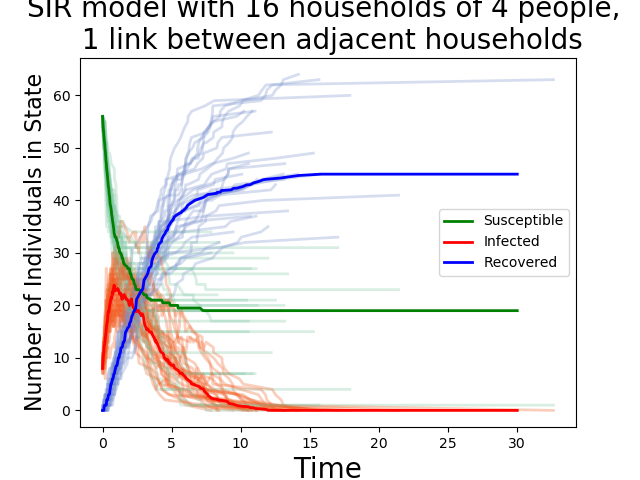
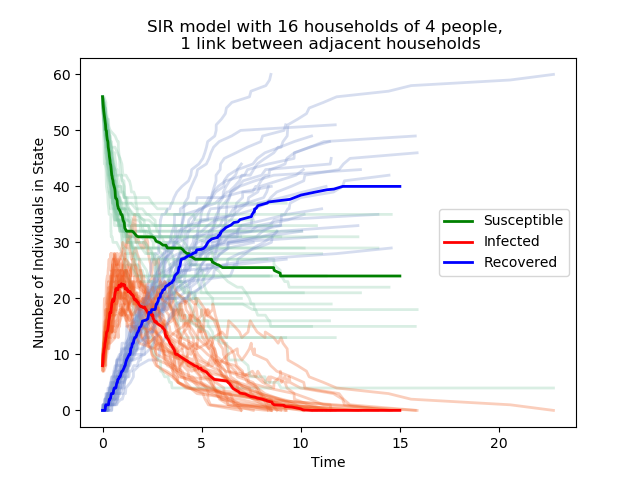
graph fixing

diff --git a/Toy_Network_Experimentation.py b/Toy_Network_Experimentation.py
@@ -112,7 +112,7 @@ def main(single_lattices=True, multi_lattices=True,k_random=True,k_workplace=Tru
     if(single_lattices):
         print("Beginning Single Seed Increasing Households tests")
         # initialise variables
-        tMax = 12
+        tMax = 15
         maxalpha = 0.4
         maxgamma = 0.1
         maxbeta = 4
@@ -269,7 +269,7 @@ def main(single_lattices=True, multi_lattices=True,k_random=True,k_workplace=Tru
     if(multi_lattices):
         print("Beginning Multi Seed Increasing Households tests")
         # initialise variables
-        tMax = 30
+        tMax = 15
         maxalpha = 0.4
         maxgamma = 0.1
         maxbeta = 4
@@ -426,7 +426,7 @@ def main(single_lattices=True, multi_lattices=True,k_random=True,k_workplace=Tru
     if(k_random):
         print("Beginning k Random Inter-Household Links Testing")
         # initialise variables
-        tMax = 30
+        tMax = 15
         maxalpha = 0.4
         maxgamma = 0.1
         maxbeta = 4
@@ -587,7 +587,7 @@ def main(single_lattices=True, multi_lattices=True,k_random=True,k_workplace=Tru
     if(k_workplace):
         print("Beginning k Workplace Links Testing")
         # initialise variables
-        tMax = 30
+        tMax = 15
         maxalpha = 0.4
         maxgamma = 0.1
         maxbeta = 4
@@ -747,4 +747,4 @@ def main(single_lattices=True, multi_lattices=True,k_random=True,k_workplace=Tru
 
 
 if __name__=="__main__":
-    main(False, False, False, True)
+    main(True, True, True, True)

diff --git a/Small_World_Experimentation.py b/Small_World_Experimentation.py
@@ -65,7 +65,7 @@ def main(er_small_test=True, ring_small_test=True):
     '''
     Main loop for testing within this Python file
     '''
-    print("Beginning toy network simulations")
+    print("Beginning small world simulations")
     if (er_small_test):
         # initialise variables
         N = 1000
@@ -114,7 +114,7 @@ def main(er_small_test=True, ring_small_test=True):
             # set recovery hazard
             rates[N+inf] = maxalpha
             # set infection hazard
-            rates[inf] = maxbeta*numSusNei[inf]/network.degree(inf)
+            rates[inf] = maxbeta*numSusNei[inf]/network.degree(inf) if network.degree(inf)>0 else 0
         S = {}
         I = {}
         R = {}
@@ -430,4 +430,4 @@ def main(er_small_test=True, ring_small_test=True):
 
 
 if __name__=="__main__":
-    main(False, False)
+    main(True, True)
